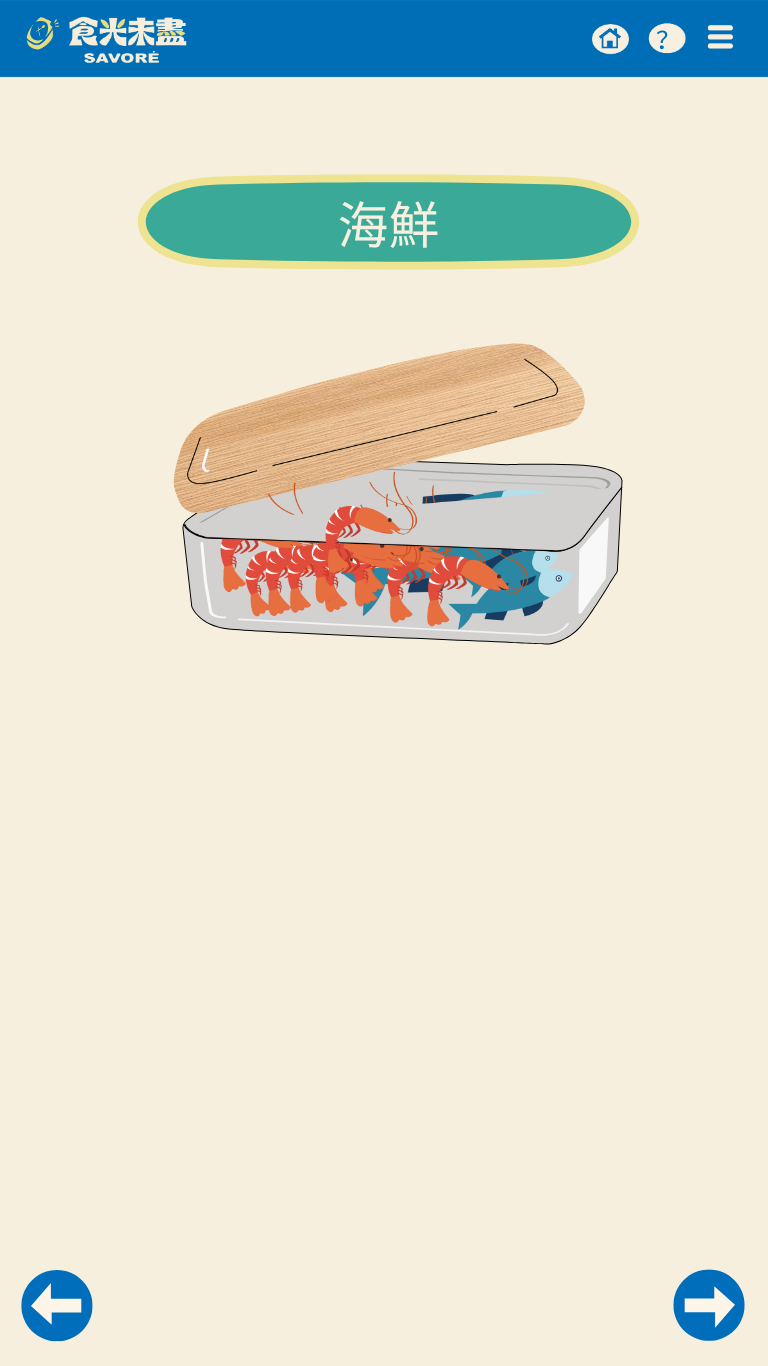
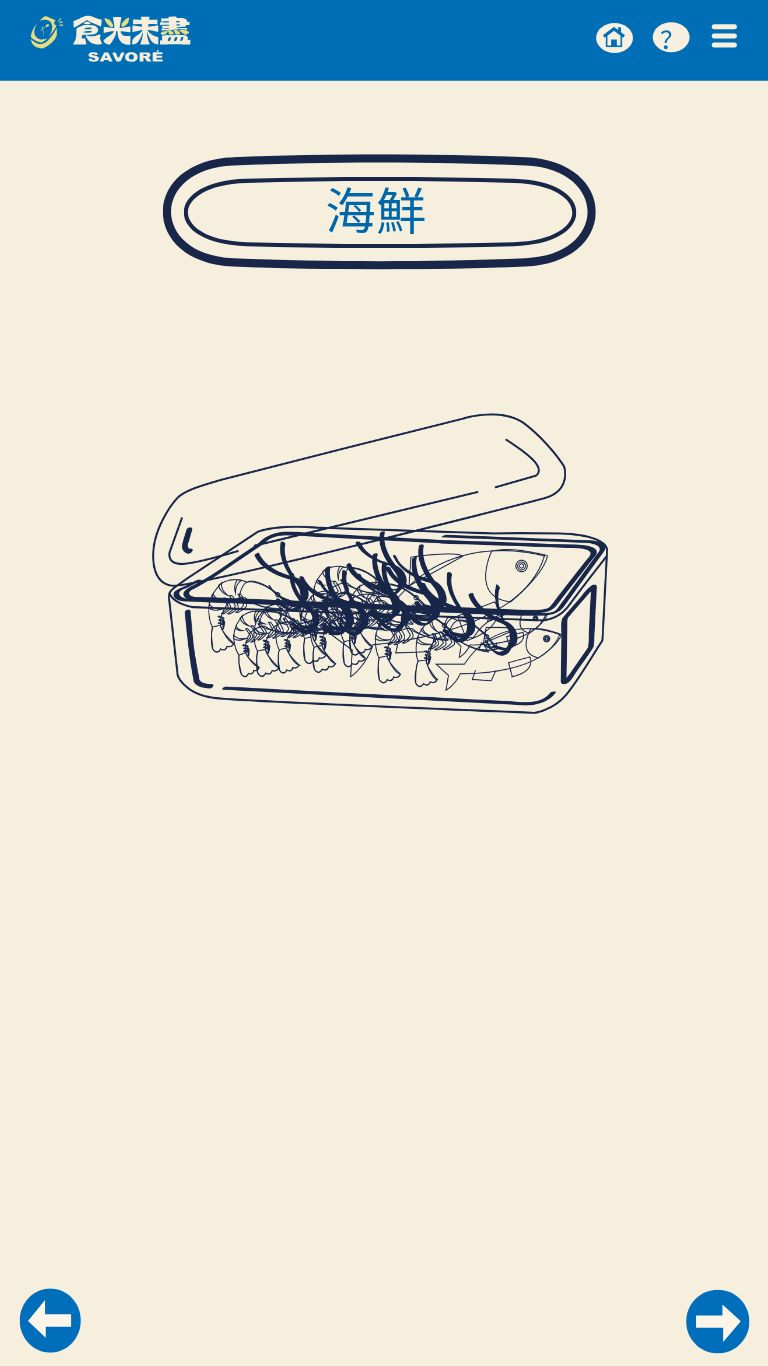
更新手機版背景與版面

diff --git a/mobile/style.css b/mobile/style.css
@@ -149,8 +149,8 @@ body {
 ========================================================= */ 
  
 .mobile-home .seafood-button { 
-    left: 7%; 
-    top: 12%; 
+    left: 39%; 
+    top: 30%; 
     width: 20%; 
 } 
  
@@ -159,8 +159,8 @@ body {
 ========================================================= */ 
  
 .mobile-home .dessert-button { 
-    left: 38%; 
-    top: 9%; 
+    left: 10%; 
+    top: 40%; 
     width: 16%; 
 } 
  
@@ -170,8 +170,8 @@ body {
  
 .mobile-home .vegetable-button { 
     right: 7%; 
-    top: 9.5%; 
-    width: 18%; 
+    top: 29%; 
+    width: 25%; 
 } 
  
 /* ========================================================= 
@@ -179,9 +179,9 @@ body {
 ========================================================= */ 
  
 .mobile-home .mantou-button { 
-    left: 6%; 
-    top: 31.5%; 
-    width: 14%; 
+    left: 13%; 
+    top: 13%; 
+    width: 16%; 
 } 
  
 /* ========================================================= 
@@ -189,9 +189,9 @@ body {
 ========================================================= */ 
  
 .mobile-home .bao-button { 
-    left: 30%; 
+    left: 10%; 
     top: 25%; 
-    width: 16%; 
+    width: 18%; 
 } 
  
 /* ========================================================= 
@@ -199,9 +199,9 @@ body {
 ========================================================= */ 
  
 .mobile-home .noodles-button { 
-    right: 25.5%; 
-    top: 21.5%; 
-    width: 16%; 
+    right: 53.5%; 
+    top: 16%; 
+    width: 16.5%; 
 } 
  
 /* ========================================================= 
@@ -209,8 +209,8 @@ body {
 ========================================================= */ 
  
 .mobile-home .rice-button { 
-    left: 6.5%; 
-    top: 47%; 
+    left: 53%; 
+    top: 20%; 
     width: 17%; 
 } 
  
@@ -219,8 +219,8 @@ body {
 ========================================================= */ 
  
 .mobile-home .fruit-button { 
-    right: 4%; 
-    top: 31%; 
+    left: 70%; 
+    top: 13%; 
     width: 20%; 
 } 
  
@@ -1221,7 +1221,7 @@ body {
     right: 8%;
 
     /* 往下移，不蓋到上面的圖片 */
-    top: 58%;
+    top: 63%;
 
     /* 留給下面的上一頁／＋／下一頁 */
     bottom: 17%;
@@ -1405,3 +1405,18 @@ body {
     border: none;
     color: transparent;
 }   
+
+
+/* =========================================================
+   手機版：放大全部品項滑動區域
+========================================================= */
+
+.mobile-all-foods .mobile-food-list {
+    left: 5%;
+    right: 5%;
+
+    top: 60%;
+    bottom: 10%;
+}
+
+
